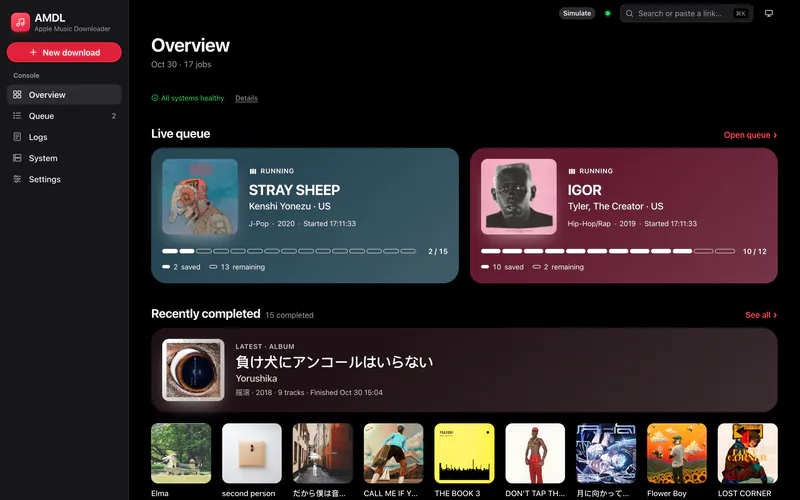
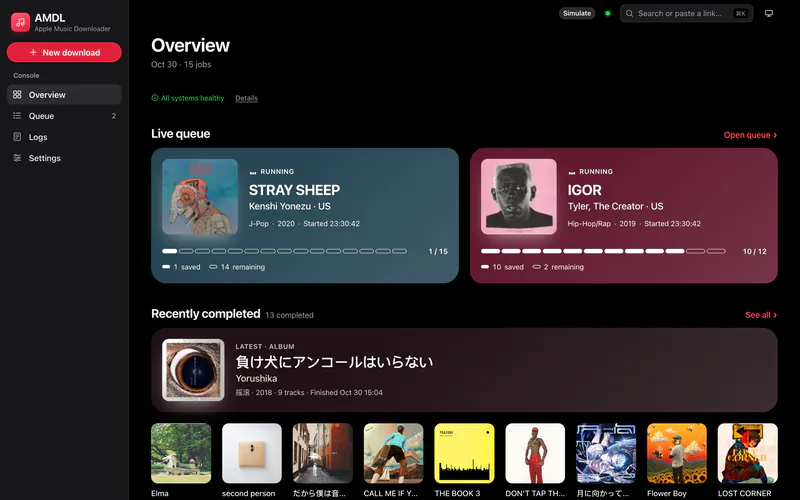
feat(site): add the Pages workflow and retake the console shots
The website moves from Cloudflare Workers to GitHub Pages at the 2.0
release. .github/workflows/pages.yml builds it from main with the site's
domain as --base and deploys it with actions/deploy-pages. It runs on a
push to main that touches the site, or by hand, and fails before the
build when build.mjs#REF is not main. main changes only through the
release PR, so it first runs on release day.

apps/site/README.md#release-day lists the cutover in order, each step
with its command and check: describe the release, enable Pages and let
main deploy to github-pages, merge, take the domain off Workers, point
DNS at GitHub, set the Pages domain and HTTPS, check the page's links,
then retire the Worker. It ends with how to go back before that last
step.

The console screenshots showed the System page that Settings absorbed.
Overview, drawer, search and phone are retaken from the current console
in both themes, and their alt text and the console's feature list say
what the page shows now.

diff --git a/apps/site/README.md b/apps/site/README.md
@@ -59,6 +59,82 @@ npx wrangler deploy --config apps/site/wrangler.jsonc
 Links into the repository, the install scripts and the Compose file come from the
 branch in `build.mjs#REF`, so it names the branch the published page describes.
 
+At the 2.0 release the site moves to GitHub Pages, built from `main` by
+`.github/workflows/pages.yml`: it runs on a push to `main` that touches the site, or by
+hand, and refuses to deploy a build whose `REF` is not `main`.
+
+## Release day
+
+The move from Workers to Pages, in order. Run each check before the next step; until
+step 8 the Workers copy can take the domain back (see the end of this section). Steps 4
+and 5 are in the Cloudflare dashboard; the rest are commands, with
+`R=AMDL-Web/apple-music-downloader`.
+
+1. **Describe the release.** One commit on `dev`: `build.mjs#REF` becomes `'main'`, and
+   the hero eyebrow in both content files drops "in development" ("2.0 · Self-hosted ·
+   Open source", "2.0 · 自托管 · 开源"). Check: `node --test apps/site/`, and
+   `rg -n "in development|开发中" apps/site/content` shows only the desktop badge.
+2. **Enable Pages** with Actions as its source, and let `main` deploy to the
+   `github-pages` environment (the repository's default branch is `dev`):
+
+   ```bash
+   gh api -X POST repos/$R/pages -f build_type=workflow
+   gh api -X PUT repos/$R/environments/github-pages --input - <<'EOF'
+   {"deployment_branch_policy": {"protected_branches": false, "custom_branch_policies": true}}
+   EOF
+   gh api -X POST repos/$R/environments/github-pages/deployment-branch-policies \
+     -f name=main -f type=branch
+   ```
+
+   Check: `gh api repos/$R/pages --jq .build_type` prints `workflow`, and
+   `gh api repos/$R/environments/github-pages/deployment-branch-policies --jq '.branch_policies[].name'`
+   prints `main`.
+3. **Merge `dev` into `main`** with the release PR. The push runs the Pages workflow.
+   Check: `gh run list --workflow pages.yml --branch main --limit 1`, then
+   `timeout 900 gh run watch <run-id> --exit-status`; afterwards
+   `curl -sI https://amdl-web.github.io/apple-music-downloader/en/` answers `200`. If
+   the run started before step 2, run it again with
+   `gh workflow run pages.yml --ref main`.
+4. **Take the domain off Workers.** In the Cloudflare dashboard: Workers & Pages →
+   `amdl-site` → Settings → Domains & Routes → `amdl.lyjw.me` → Remove. That also deletes
+   the DNS record Workers made. Check:
+   `curl -s -H 'accept: application/dns-json' 'https://cloudflare-dns.com/dns-query?name=amdl.lyjw.me&type=A'`
+   has no `Answer`. The site is down from here until step 6 ends.
+5. **Point DNS at GitHub.** In the `lyjw.me` zone add `CNAME amdl → amdl-web.github.io`
+   with the proxy off (DNS only), so GitHub can issue the certificate. Check: the same
+   DNS query with `type=CNAME` answers `amdl-web.github.io.`
+6. **Give Pages the domain** and turn on HTTPS once its certificate is issued:
+
+   ```bash
+   gh api -X PUT repos/$R/pages -f cname=amdl.lyjw.me
+   gh api repos/$R/pages --jq '.cname, .https_certificate.state'
+   gh api -X PUT repos/$R/pages -F https_enforced=true
+   ```
+
+   Run the second line until the state is `approved`, then the third. Check:
+   `curl -sI https://amdl.lyjw.me/en/` answers `200` with `server: GitHub.com`, and
+   `curl -sI http://amdl.lyjw.me/` redirects to `https://`.
+7. **Check the page's links.** Every link into the repository on the live page (the docs,
+   the install scripts, the Compose file) answers `200` and points at `main`, and the
+   install script finds the release:
+
+   ```bash
+   curl -s https://amdl.lyjw.me/en/ \
+     | grep -oE 'https://(raw\.githubusercontent\.com|github\.com)/AMDL-Web/[^"<# ]*' | sort -u \
+     | xargs -n1 curl -so /dev/null -w '%{http_code} %{url_effective}\n'
+   curl -fsSL https://raw.githubusercontent.com/$R/main/deploy/install/install.sh | sh -s -- --dry-run
+   ```
+
+8. **Retire Workers.** `npx wrangler delete --name amdl-site`. In the next commit on
+   `dev`, delete `apps/site/wrangler.jsonc` and the `/.wrangler/` line in `.gitignore`,
+   and make the Publishing section above describe Pages only. Check: `amdl-site` is gone
+   from the dashboard's Workers & Pages list.
+
+To go back before step 8: clear the Pages domain with
+`echo '{"cname": null}' | gh api -X PUT repos/$R/pages --input -`, delete the `amdl`
+CNAME, then run `npx wrangler deploy --config apps/site/wrangler.jsonc`, which makes the
+Workers custom domain and its DNS record again.
+
 ## Changing the content
 
 - Edit both `content/en.json` and `content/zh-CN.json` in the same change. The Chinese
